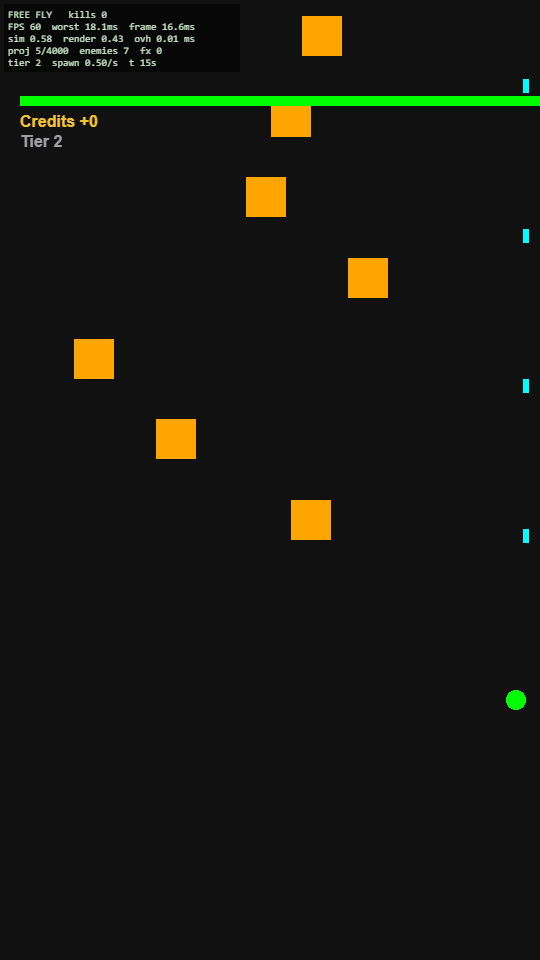
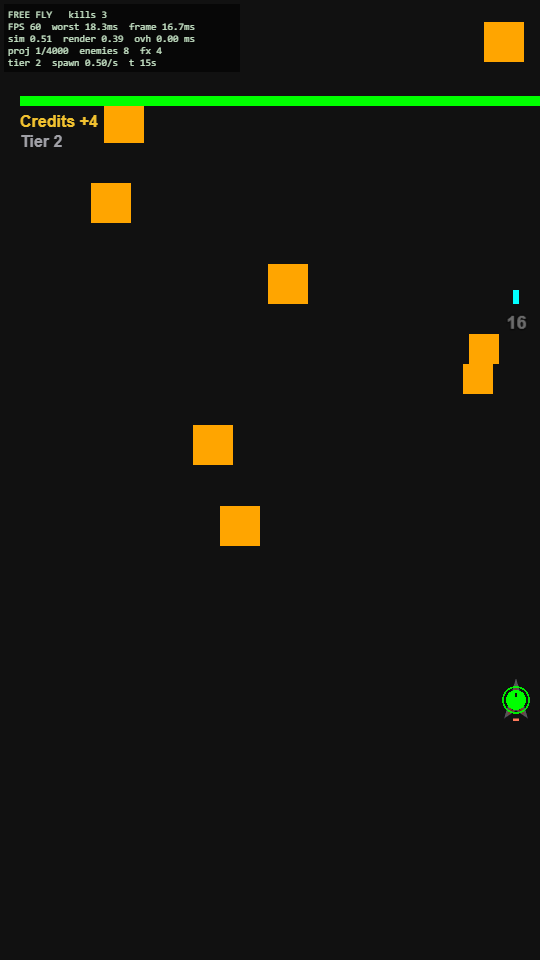
7c G5: Dart e2e with screenshots, older scripts on a seeded Shuttle, legacy grid grants the Shuttle, DECISIONS 89-95

diff --git a/src/ui/shipArt.ts b/src/ui/shipArt.ts
@@ -58,16 +58,16 @@ export const SHIP_ART: Record<string, ShipArtDef> = {
   /** Narrow arrowhead. */
   dart: {
     id: 'dart', accent: CATEGORY_COLOR.damage, size: 1, muzzleY: 0.02,
-    layers: nest([[0.5, 0.02], [0.64, 0.9], [0.5, 0.76], [0.36, 0.9]]),
-    engine: [0.43, 0.57, 0.9, 0.96],
+    layers: nest([[0.5, 0.0], [0.77, 0.92], [0.5, 0.74], [0.23, 0.92]]),
+    engine: [0.43, 0.57, 0.92, 0.98],
   },
   /** Arrowhead with two small side pods. */
   twin: {
     id: 'twin', accent: CATEGORY_COLOR.pathing, size: 1, muzzleY: 0.02,
     layers: nest(
-      [[0.5, 0.02], [0.62, 0.88], [0.5, 0.76], [0.38, 0.88]],
-      [[0.2, 0.46], [0.3, 0.46], [0.3, 0.84], [0.2, 0.84]],
-      [[0.7, 0.46], [0.8, 0.46], [0.8, 0.84], [0.7, 0.84]],
+      [[0.5, 0.0], [0.7, 0.9], [0.5, 0.74], [0.3, 0.9]],
+      [[0.08, 0.42], [0.22, 0.42], [0.22, 0.86], [0.08, 0.86]],
+      [[0.78, 0.42], [0.92, 0.42], [0.92, 0.86], [0.78, 0.86]],
     ),
     engine: [0.43, 0.57, 0.88, 0.94],
   },
@@ -164,12 +164,15 @@ export class ShipView {
     this.art.height = px * def.size;
     for (const m of muzzles) {
       const along = m.dir === 'E' || m.dir === 'W';
-      const w = along ? 6 : 2.5;
-      const h = along ? 2.5 : 6;
-      this.ticks.rect(m.x - w / 2, m.y - h / 2, w, h).fill(THEME.bulletCasing);
+      const w = along ? 4 : 2;
+      const h = along ? 2 : 4;
+      // Nudged off the dead centre so the middle pixel of the dot stays bright green.
+      const oy = m.dir === 'N' || m.dir === 'S' ? (m.y <= 0 ? -1.5 : 1.5) : 0;
+      this.ticks.rect(m.x - w / 2, m.y + oy - h / 2, w, h).fill(0x101012);
     }
     this.dot = new Graphics().circle(0, 0, hitR + 3).stroke({ color: 0x00ff00, width: 1.5, alpha: 0.9 }).circle(0, 0, hitR).fill(0x00ff00);
-    this.container.addChild(this.art, this.ticks, this.dot);
+    // The ejectors sit a few px from the centre (inside the dot), so the ticks are drawn over it.
+    this.container.addChild(this.art, this.dot, this.ticks);
   }
 
   setPosition(x: number, y: number) { this.container.position.set(x, y); }

diff --git a/src/builder/model.ts b/src/builder/model.ts
@@ -51,6 +51,8 @@ export class BuilderModel {
       /* storage unavailable */
     }
     this.saved = loadBuilder(raw, legacy);
+    // A player of the old grid format built on what is now the Shuttle: it stays theirs.
+    if (legacy && !this.store.data.ownedHulls.includes('shuttle')) { this.store.data.ownedHulls.push('shuttle'); this.store.commit(); }
     this.loadHull(hullId ?? this.saved.activeHull ?? DEFAULT_HULL);
     if ((!raw || legacy || this.trimmed > 0) && storage) this.persist(); // write the new format over a migrated save
   }

diff --git a/DECISIONS.md b/DECISIONS.md
@@ -121,3 +121,13 @@ These replace decisions 78-82 (cylinder, camera, backdrop, leash, spawn ring) an
 86. **Enemies stay inside the width.** Rocks spawn at x 20..W-20 just above the top edge (`spawnRock` also clamps a requested x to [radius, W-radius]). Each step an enemy is clamped to [radius, W-radius]; touching a side flips the direction of its sway (`swayDir`) and reflects a knockback in progress. Mitosis children are clamped at birth. A rock whose centre stays above the top edge for more than `ABOVE_SCREEN_MAX = 6` s is moved to y 0. Leaks at the bottom are as before 7a. Enemies in this game do not home or steer (only projectiles do), so there was no steering to confine.
 87. **Stats overlay (`ui/stats.ts`).** A Pixi plate in the top-left above every screen (the ScreenManager adds screens below it), not interactive. Lines: screen name and kills; FPS (0.5 s window), worst frame of the last second, frame ms; sim ms, render ms, overlay ms per frame; projectiles live/capacity, enemies, fx (damage numbers and bursts); a last line (Free Fly: tier, spawn rate, time; wall: blocks, scroll speed, camera x). Text is rebuilt 4 times a second only while visible; while hidden the frame hooks return at once. "render" is the CPU time of the draw call (a UTILITY-priority ticker listener minus the end of the simulation), GPU time is not included. The HUD of Free Fly and the wall moves down by `hudOffset` while the plate is on. On: `import.meta.env.DEV` by default, off in production; `?stats=1/0` and the backtick key override it and are stored in `localStorage` (`mgbm.stats`, try/catch). `e2e/lib.cjs` adds `stats=0` unless the script's URL has its own.
 88. **Tests.** `tests/freeFlyConfine.test.ts` (120 s property run and the 6 s guard); `e2e/freefly.e2e.cjs` rewritten (30 s at the right edge, overlay values and toggle, two screenshots in `reports/chunk7b`).
+
+## Chunk 7c: ships (art, hull ladder, Dart starter, retune) and the invisible finish
+
+89. **Pass line.** `FINISH_MARGIN_CELLS` (1.5) became `PASS_MARGIN_CELLS = 8` and nothing is drawn for it (the line graphic and its layer are gone). `WallWorld.finishY` keeps its name; the HUD progress bar (0 at the start, 1 at the pass line) follows it. Projectiles are now dropped 100 px above the last row of the wall instead of above the old line. `wall.test` and `campaign.e2e` were updated (the campaign pilot no longer waits for a visible line).
+90. **Ship art (`ui/shipArt.ts`).** A ship is `ShipArtDef { id, layers: [{points, role}], accent, engine?, muzzleY?, size }` in a unit box. Silhouette pieces are nested automatically (outer `#55555a`, mid = accent x 0.5, inner `#26262a`, an accent engine bar), flat polygons, no animation. One texture per ship id and size is drawn once through `renderer.generateTexture` and cached (`getShipTexture`). `ShipView` (used by FlyScreen and WallScreen) puts the art behind, the bright green hit dot with a thin ring on top, and a small dark tick at every ejector's real firing position (the offsets are scaled by `FIRE_OFFSET_SCALE`, so they are only 3 to 10 px from the dot and are drawn over it). The same textures are the thumbnails in the Shop hull cards and in the Build hull list.
+91. **Hull ladder (`data/hulls.ts`, `game/gridUtils.ts`).** Dart (`E / _ / G`, one free cell, free), Twin (two free cells in a line), Prong (`E.E / ___ / G..`: two ejectors; a Splitter 3 on the left cell and a Turn Left on the right one feed both), Fan and Shuttle as before. `Grid.hullId` carries the hull into the worlds, which read its firing stats (`fireRateMul`). The legacy per-hull records of `data/hulls.ts` were unused and are gone.
+92. **Retune.** Only the Dart is slow: `DART_FIRE_RATE_MUL = 0.25` (1 pulse a second, 101 damage with a Flat+ in the slot, so est. 101 DPS against the Shuttle starter's 404). The first target was 35% (141 DPS); with it tier 1's carve ratio was 0.39, below the 0.5 to 0.8 goal, so it was lowered once to 0.25 (ratio 0.55). Carve ratios with the Dart (`npm run balance-wall`; STARTER=shuttle prints the old table): tier 1 0.55, 5 0.32, 8 0.16, 10 0.58, 14 1.36, 20 3.0, 30 2.5. A full clear of tier 1 needs 4.5 x the Dart's DPS (an upgrade, a Twin or both). **Missed goal, not tuned (the wall generator is off limits):** tiers 8 and 10 are still passable by the bare Dart (0.16 and 0.58) because their cheapest column is cheap; tier 14 is the first that needs more gun.
+93. **Prices.** Twin 70, Prong 350, Fan 1200, Shuttle 3000 (constants in `data/hulls.ts`). Basis: a full-attention bot with the Dart earns about 16 credits on a tier-1 pass (it destroys ~24% of the wall), +5% per tier, so about four passes pay the Twin. The carve bot's 2 credits per pass is the floor, not what a player earns. Free Fly pays about 20 credits per 60 s run with the Dart. Fan and Shuttle used to cost 600 and 0 (Shuttle was the free starter); saves that own them keep them.
+94. **Saves.** Progress version 4: every save owns the Dart; an older save keeps `ownedHulls` and gains the Dart (a v1 to v3 save with a hull list keeps its Shuttle). A fresh builder save starts on the Dart with an empty slot (it also holds the Shuttle's classic three-block circuit for when it is bought). A builder save with no `activeHull` but Shuttle data stays on the Shuttle; the old single-grid format goes to the Shuttle and grants it. An unknown or unowned saved hull falls back to the Dart. `fitView` caps cells at 110 px so the 1 x 3 Dart grid stays centred and sensible.
+95. **Tests and scripts.** `tests/ships.test.ts` (art valid and cached, ladder, Dart DPS ratio, slow fire, Prong feed, migrations). `e2e/lib.cjs` `openGame` seeds an owned, selected Shuttle unless `dart: true` (the older scripts were written on it); `freefly.e2e.cjs` is the fresh-save Dart script (build, place a Flat+ in the slot, fly, Shop hull cards, wall frame) and `economy.e2e.cjs` grants the Shuttle after its fresh checks. Hull-list taps moved (Fan is the fourth row).
